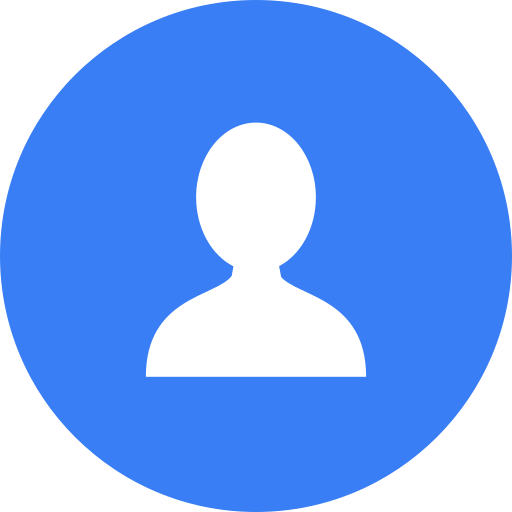
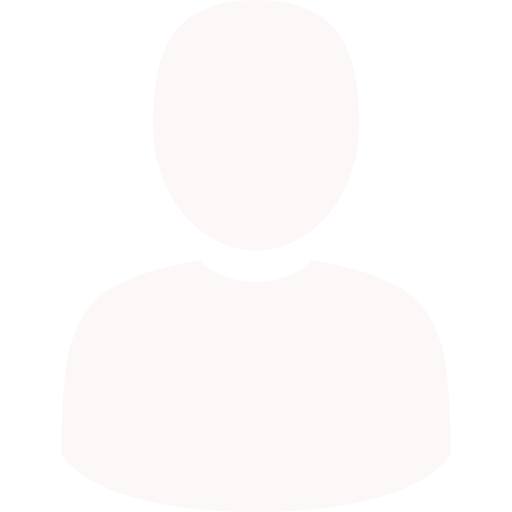
Incorporar boton a pantalla de grupo y cambiar imagen de usuario

diff --git a/src/app/components/groups/groups.component.html b/src/app/components/groups/groups.component.html
@@ -34,7 +34,8 @@
                                                 <p>Number of people playing: {{group.totalMembers}}</p>
 
                                                 <div class="text-center">
-                                                    <button mdbBtn rounded="true" class="green-seven-one white-text mt-2" (click)="goButton(index, group._id)">Go</button>
+                                                    <button mdbBtn rounded="true" size="sm" class="green-seven-one white-text mt-2">View</button>
+                                                    <button mdbBtn rounded="true" size="sm" class="green-seven-one white-text mt-2" (click)="goButton(index, group._id)">Go</button>
                                                 </div>
                                             </mdb-card-body>
                                         </mdb-card>
